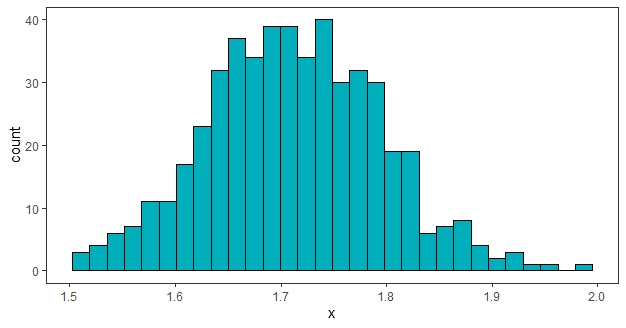
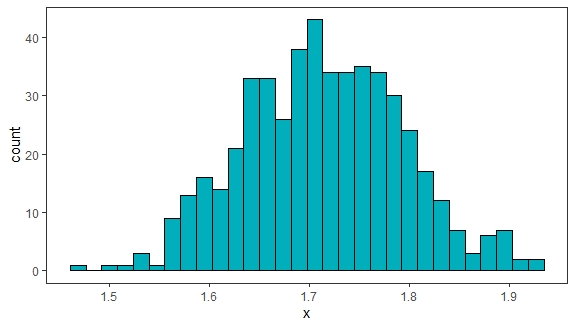
add outlier detection and calculations

diff --git a/README.md b/README.md
@@ -13,7 +13,7 @@ For example, if we have the histogram of the height of a certain company:
 
 ![height](https://github.com/AlbertoRodrigues/fit_probability_distributions/blob/main/images/normal_ex1.jpeg)
 
-We may be interested in finding out whether a certain value is an outlier or not. In the case of the normal distribution, to consider whether an observation is an outlier or not, we can check whether the probability of that observed value happening is small enough. One possible choice is to measure whether this value is beyond the center of the data mass.
+We may be interested to find whether a certain value is an outlier or not. In the case of the normal distribution, to consider whether an observation is an outlier or not, we can check whether the probability of that observed value happening is small enough. One possible choice is to measure whether this value is beyond the center of the data mass.
 
  In the normal distribution, if the value is greater than three standard deviations beyond the mean or less than minus three standard deviations from the mean, this value can be considered an outlier. This region has approximately 0.26% probability of happening, very small indeed. The figure below illustrates the shape of the normal distribution in relation to its standard deviation and probabilities:
 
@@ -23,12 +23,40 @@ We can adjust the normal distribution to see if it is a reasonable choice:
 
 ![fitnormal](https://github.com/AlbertoRodrigues/fit_probability_distributions/blob/main/images/normalajuste1.jpeg)
 
-It sounds like a proper fit. In this way, we can draw several important conclusions and interpretations of this variable. Let us carefully review some possibilities:
+It sounds like a proper fit. In this way, we can take several important conclusions and interpretations for this variable. Let us carefully review some analysis possibilities:
 
-1. Check whether the observed value of 1.97 is an outlier or not
-2. Calculate events of interest such as ![equation](https://latex.codecogs.com/gif.latex?\mathbb{P}(X>1.8),&space;\mathbb{P}(X>1.96)&space;\text{&space;and&space;}&space;\mathbb{P}(1.48<X<1.72))
+1. Check whether the observed value of 1.87 is an outlier or not
+2. Calculate events of interest such as ![equation](https://latex.codecogs.com/gif.latex?\mathbb{P}(X>1.8),&space;\mathbb{P}(X>1.63)&space;\text{&space;and&space;}&space;\mathbb{P}(1.58<X<1.72))
 3. Obtain confidence interval
 4. Obtain Hypothesis Tests
+
+## Outlier detection
+
+Let us calculate the probability that 1.87 is extreme. As it deals with continuous variable, we can calculate this probability through the integral in the desired interval, given by:
+
+https://latex.codecogs.com/gif.latex?\mathbb{P}(X>1.87)=\int_{1.87}^{\infty}\dfrac{1}{\hat{\sigma}\sqrt{ 2\pi}}e^{\dfrac{(x-\hat{\mu})^2}{2\hat{\sigma^2}}}dx&space;\approx&space;0.025
+
+This is exactly the equivalent of calculating the following area:
+
+![prob](https://github.com/AlbertoRodrigues/fit_probability_distributions/blob/main/images/prob187.jpg)
+
+As the probability of this event is greater than 0.00013, we can consider it to be a typical value of the dataset.
+
+## Measurement of some events of interest
+
+Now, let us calculate some events of interest through probability:
+
+https://latex.codecogs.com/gif.latex?\mathbb{P}(X>1.8)=\int_{1.8}^{\infty}\dfrac{1}{\hat{\sigma}\sqrt{ 2\pi}}e^{\dfrac{(x-\hat{\mu})^2}{2\hat{\sigma^2}}}dx&space;\approx&space;0.14\\&space;\mathbb{P }(X<1.63)=\int_{-\infty}^{1.63}\dfrac{1}{\hat{\sigma}\sqrt{2\pi}}e^{\dfrac{(x-\hat{ \mu})^2}{2\hat{\sigma^2}}}dx&space;\aprox&space;0.15\\&space;\mathbb{P}(1.58<X<1.72)=\int_{1.58}^{1.72 }\dfrac{1}{\hat{\sigma}\sqrt{2\pi}}e^{\dfrac{(x-\hat{\mu})^2}{2\hat{\sigma^2} }}dx&space;\approx&space;0.48
+
+These probabilities are calculated from the following areas, respectively:
+
+![prob](https://github.com/AlbertoRodrigues/fit_probability_distributions/blob/main/images/prob180.jpg)
+
+![prob](https://github.com/AlbertoRodrigues/fit_probability_distributions/blob/main/images/prob163.jpg)
+
+![prob](https://github.com/AlbertoRodrigues/fit_probability_distributions/blob/main/images/prob158172.jpg)
+
+
 
 In other situations, a more skewed probability distribution may better fit some variables of interest.
 To illustrate, imagine that we are studying employees' salary at a company suspected of corruption. The histogram of this variable is given below:
